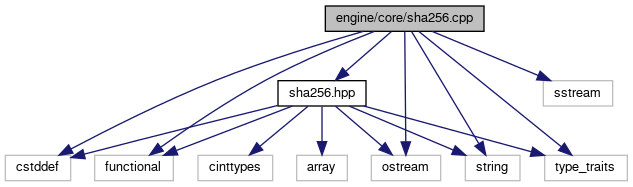
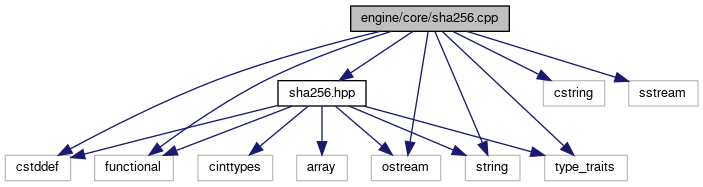
deploy: a87ef116c7a0143aa982c8b3670f62d26d1c5ecc

diff --git a/sha256_8hpp_source.html b/sha256_8hpp_source.html
@@ -177,23 +177,23 @@ $(function() {
 <div class="line"><a name="l00116"></a><span class="lineno">  116</span>&#160; </div>
 <div class="line"><a name="l00117"></a><span class="lineno">  117</span>&#160;}<span class="comment">// namespace std</span></div>
 <div class="ttc" id="aclasswmoge_1_1Sha256Builder_html"><div class="ttname"><a href="classwmoge_1_1Sha256Builder.html">wmoge::Sha256Builder</a></div><div class="ttdoc">Builder for sha256 hash.</div><div class="ttdef"><b>Definition:</b> sha256.hpp:75</div></div>
-<div class="ttc" id="aclasswmoge_1_1Sha256Builder_html_a0f6405176409e6e9ccb174d45b0eab2e"><div class="ttname"><a href="classwmoge_1_1Sha256Builder.html#a0f6405176409e6e9ccb174d45b0eab2e">wmoge::Sha256Builder::Sha256Builder</a></div><div class="ttdeci">Sha256Builder()</div><div class="ttdef"><b>Definition:</b> sha256.cpp:114</div></div>
-<div class="ttc" id="aclasswmoge_1_1Sha256Builder_html_a78a150d2990d51301de80bbaf54531db"><div class="ttname"><a href="classwmoge_1_1Sha256Builder.html#a78a150d2990d51301de80bbaf54531db">wmoge::Sha256Builder::get</a></div><div class="ttdeci">Sha256 get()</div><div class="ttdef"><b>Definition:</b> sha256.cpp:130</div></div>
-<div class="ttc" id="aclasswmoge_1_1Sha256Builder_html_a951b145bd857f467b626e1b41100f9ce"><div class="ttname"><a href="classwmoge_1_1Sha256Builder.html#a951b145bd857f467b626e1b41100f9ce">wmoge::Sha256Builder::hash</a></div><div class="ttdeci">Sha256Builder &amp; hash(const void *buffer, std::size_t size)</div><div class="ttdef"><b>Definition:</b> sha256.cpp:125</div></div>
+<div class="ttc" id="aclasswmoge_1_1Sha256Builder_html_a0f6405176409e6e9ccb174d45b0eab2e"><div class="ttname"><a href="classwmoge_1_1Sha256Builder.html#a0f6405176409e6e9ccb174d45b0eab2e">wmoge::Sha256Builder::Sha256Builder</a></div><div class="ttdeci">Sha256Builder()</div><div class="ttdef"><b>Definition:</b> sha256.cpp:115</div></div>
+<div class="ttc" id="aclasswmoge_1_1Sha256Builder_html_a78a150d2990d51301de80bbaf54531db"><div class="ttname"><a href="classwmoge_1_1Sha256Builder.html#a78a150d2990d51301de80bbaf54531db">wmoge::Sha256Builder::get</a></div><div class="ttdeci">Sha256 get()</div><div class="ttdef"><b>Definition:</b> sha256.cpp:131</div></div>
+<div class="ttc" id="aclasswmoge_1_1Sha256Builder_html_a951b145bd857f467b626e1b41100f9ce"><div class="ttname"><a href="classwmoge_1_1Sha256Builder.html#a951b145bd857f467b626e1b41100f9ce">wmoge::Sha256Builder::hash</a></div><div class="ttdeci">Sha256Builder &amp; hash(const void *buffer, std::size_t size)</div><div class="ttdef"><b>Definition:</b> sha256.cpp:126</div></div>
 <div class="ttc" id="anamespacestd_html"><div class="ttname"><a href="namespacestd.html">std</a></div><div class="ttdef"><b>Definition:</b> asset.hpp:156</div></div>
 <div class="ttc" id="anamespacewmoge_html"><div class="ttname"><a href="namespacewmoge.html">wmoge</a></div><div class="ttdef"><b>Definition:</b> _rtti.hpp:35</div></div>
 <div class="ttc" id="anamespacewmoge_html_adede183c01d39f6f86a970aac0d60f07"><div class="ttname"><a href="namespacewmoge.html#adede183c01d39f6f86a970aac0d60f07">wmoge::operator&lt;&lt;</a></div><div class="ttdeci">std::ostream &amp; operator&lt;&lt;(std::ostream &amp;stream, const AssetId &amp;id)</div><div class="ttdef"><b>Definition:</b> asset.hpp:84</div></div>
 <div class="ttc" id="astructstd_1_1hash_3_01wmoge_1_1Sha256_01_4_html_a1d44599b91f205e033706f4e6bf2812b"><div class="ttname"><a href="structstd_1_1hash_3_01wmoge_1_1Sha256_01_4.html#a1d44599b91f205e033706f4e6bf2812b">std::hash&lt; wmoge::Sha256 &gt;::operator()</a></div><div class="ttdeci">std::size_t operator()(const wmoge::Sha256 &amp;sha) const</div><div class="ttdef"><b>Definition:</b> sha256.hpp:112</div></div>
 <div class="ttc" id="astructwmoge_1_1Sha256_html"><div class="ttname"><a href="structwmoge_1_1Sha256.html">wmoge::Sha256</a></div><div class="ttdoc">SHA 256 bit hash.</div><div class="ttdef"><b>Definition:</b> sha256.hpp:44</div></div>
-<div class="ttc" id="astructwmoge_1_1Sha256_html_a1d014dd737e8c0379f4d4399e0942b75"><div class="ttname"><a href="structwmoge_1_1Sha256.html#a1d014dd737e8c0379f4d4399e0942b75">wmoge::Sha256::operator!=</a></div><div class="ttdeci">bool operator!=(const Sha256 &amp;other) const</div><div class="ttdef"><b>Definition:</b> sha256.cpp:62</div></div>
+<div class="ttc" id="astructwmoge_1_1Sha256_html_a1d014dd737e8c0379f4d4399e0942b75"><div class="ttname"><a href="structwmoge_1_1Sha256.html#a1d014dd737e8c0379f4d4399e0942b75">wmoge::Sha256::operator!=</a></div><div class="ttdeci">bool operator!=(const Sha256 &amp;other) const</div><div class="ttdef"><b>Definition:</b> sha256.cpp:63</div></div>
 <div class="ttc" id="astructwmoge_1_1Sha256_html_a51bb9146a070dba9d7c6cbc2a8a79830"><div class="ttname"><a href="structwmoge_1_1Sha256.html#a51bb9146a070dba9d7c6cbc2a8a79830">wmoge::Sha256::Sha256</a></div><div class="ttdeci">Sha256()=default</div></div>
 <div class="ttc" id="astructwmoge_1_1Sha256_html_a51c5d96644f5e2c77d1a15605d7286fe"><div class="ttname"><a href="structwmoge_1_1Sha256.html#a51c5d96644f5e2c77d1a15605d7286fe">wmoge::Sha256::NUM_HEXDIG</a></div><div class="ttdeci">static constexpr unsigned int NUM_HEXDIG</div><div class="ttdef"><b>Definition:</b> sha256.hpp:48</div></div>
-<div class="ttc" id="astructwmoge_1_1Sha256_html_a62098c27971f3d1b21e1ee3fdf48b00b"><div class="ttname"><a href="structwmoge_1_1Sha256.html#a62098c27971f3d1b21e1ee3fdf48b00b">wmoge::Sha256::hash</a></div><div class="ttdeci">std::size_t hash() const</div><div class="ttdef"><b>Definition:</b> sha256.cpp:85</div></div>
+<div class="ttc" id="astructwmoge_1_1Sha256_html_a62098c27971f3d1b21e1ee3fdf48b00b"><div class="ttname"><a href="structwmoge_1_1Sha256.html#a62098c27971f3d1b21e1ee3fdf48b00b">wmoge::Sha256::hash</a></div><div class="ttdeci">std::size_t hash() const</div><div class="ttdef"><b>Definition:</b> sha256.cpp:86</div></div>
 <div class="ttc" id="astructwmoge_1_1Sha256_html_a62556953fae021dc94058fd9f3ccfdad"><div class="ttname"><a href="structwmoge_1_1Sha256.html#a62556953fae021dc94058fd9f3ccfdad">wmoge::Sha256::NUM_BYTES</a></div><div class="ttdeci">static constexpr unsigned int NUM_BYTES</div><div class="ttdef"><b>Definition:</b> sha256.hpp:46</div></div>
 <div class="ttc" id="astructwmoge_1_1Sha256_html_a94dba9ee342aecf0ca84d868e8b53a83"><div class="ttname"><a href="structwmoge_1_1Sha256.html#a94dba9ee342aecf0ca84d868e8b53a83">wmoge::Sha256::NUM_WORDS</a></div><div class="ttdeci">static constexpr unsigned int NUM_WORDS</div><div class="ttdef"><b>Definition:</b> sha256.hpp:47</div></div>
 <div class="ttc" id="astructwmoge_1_1Sha256_html_ab573f6e2af437d9bb9467711943629e4"><div class="ttname"><a href="structwmoge_1_1Sha256.html#ab573f6e2af437d9bb9467711943629e4">wmoge::Sha256::NUM_BITS</a></div><div class="ttdeci">static constexpr unsigned int NUM_BITS</div><div class="ttdef"><b>Definition:</b> sha256.hpp:45</div></div>
-<div class="ttc" id="astructwmoge_1_1Sha256_html_abaf9810935472c730a38639860941142"><div class="ttname"><a href="structwmoge_1_1Sha256.html#abaf9810935472c730a38639860941142">wmoge::Sha256::operator==</a></div><div class="ttdeci">bool operator==(const Sha256 &amp;other) const</div><div class="ttdef"><b>Definition:</b> sha256.cpp:53</div></div>
-<div class="ttc" id="astructwmoge_1_1Sha256_html_abd91543c275d9744285025cb62df91a0"><div class="ttname"><a href="structwmoge_1_1Sha256.html#abd91543c275d9744285025cb62df91a0">wmoge::Sha256::to_string</a></div><div class="ttdeci">std::string to_string() const</div><div class="ttdef"><b>Definition:</b> sha256.cpp:71</div></div>
+<div class="ttc" id="astructwmoge_1_1Sha256_html_abaf9810935472c730a38639860941142"><div class="ttname"><a href="structwmoge_1_1Sha256.html#abaf9810935472c730a38639860941142">wmoge::Sha256::operator==</a></div><div class="ttdeci">bool operator==(const Sha256 &amp;other) const</div><div class="ttdef"><b>Definition:</b> sha256.cpp:54</div></div>
+<div class="ttc" id="astructwmoge_1_1Sha256_html_abd91543c275d9744285025cb62df91a0"><div class="ttname"><a href="structwmoge_1_1Sha256.html#abd91543c275d9744285025cb62df91a0">wmoge::Sha256::to_string</a></div><div class="ttdeci">std::string to_string() const</div><div class="ttdef"><b>Definition:</b> sha256.cpp:72</div></div>
 <div class="ttc" id="astructwmoge_1_1Sha256_html_aea70084e293bd503539de3dc5b50023a"><div class="ttname"><a href="structwmoge_1_1Sha256.html#aea70084e293bd503539de3dc5b50023a">wmoge::Sha256::values</a></div><div class="ttdeci">std::uint32_t values[NUM_WORDS]</div><div class="ttdef"><b>Definition:</b> sha256.hpp:59</div></div>
 </div><!-- fragment --></div><!-- contents -->
 <!-- start footer part -->

diff --git a/sha256_8cpp.html b/sha256_8cpp.html
@@ -73,6 +73,7 @@ $(function() {
 <div class="contents">
 <div class="textblock"><code>#include &quot;<a class="el" href="sha256_8hpp_source.html">sha256.hpp</a>&quot;</code><br />
 <code>#include &lt;cstddef&gt;</code><br />
+<code>#include &lt;cstring&gt;</code><br />
 <code>#include &lt;functional&gt;</code><br />
 <code>#include &lt;ostream&gt;</code><br />
 <code>#include &lt;sstream&gt;</code><br />
@@ -83,14 +84,15 @@ Include dependency graph for sha256.cpp:</div>
 <div class="dyncontent">
 <div class="center"><img src="sha256_8cpp__incl.png" border="0" usemap="#aengine_2core_2sha256_8cpp" alt=""/></div>
 <map name="aengine_2core_2sha256_8cpp" id="aengine_2core_2sha256_8cpp">
-<area shape="rect" title=" " alt="" coords="325,5,484,32"/>
+<area shape="rect" title=" " alt="" coords="351,5,509,32"/>
 <area shape="rect" href="sha256_8hpp.html" title=" " alt="" coords="278,80,366,107"/>
 <area shape="rect" title=" " alt="" coords="5,155,71,181"/>
 <area shape="rect" title=" " alt="" coords="95,155,173,181"/>
 <area shape="rect" title=" " alt="" coords="371,155,441,181"/>
 <area shape="rect" title=" " alt="" coords="465,155,520,181"/>
 <area shape="rect" title=" " alt="" coords="545,155,627,181"/>
-<area shape="rect" title=" " alt="" coords="543,80,613,107"/>
+<area shape="rect" title=" " alt="" coords="543,80,605,107"/>
+<area shape="rect" title=" " alt="" coords="629,80,698,107"/>
 <area shape="rect" title=" " alt="" coords="297,155,347,181"/>
 <area shape="rect" title=" " alt="" coords="198,155,273,181"/>
 </map>
